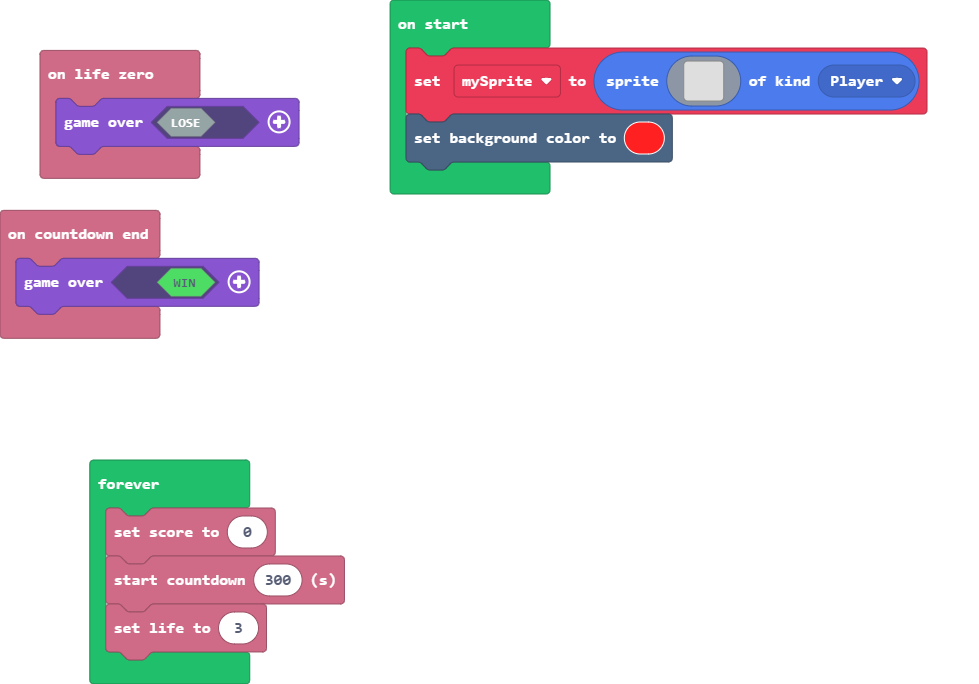
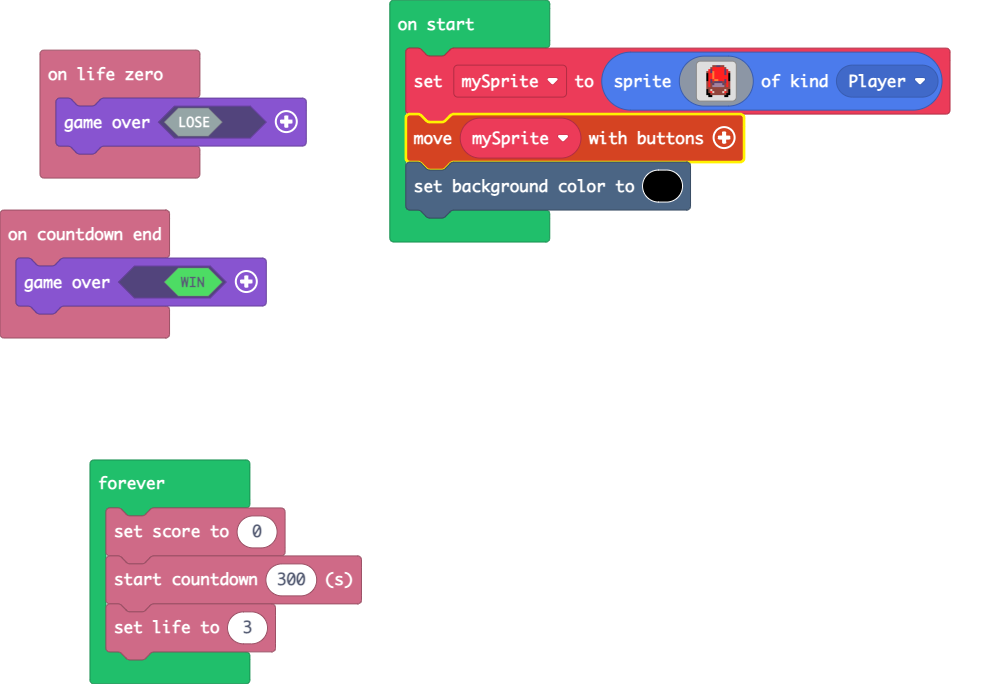
Update main.blocks, main.ts

diff --git a/main.ts b/main.ts
@@ -5,24 +5,25 @@ info.onLifeZero(function () {
     game.over(false)
 })
 let mySprite = sprites.create(img`
-    . . . . . . . . . . . . . . . . 
-    . . . . . . . . . . . . . . . . 
-    . . . . . . . . . . . . . . . . 
-    . . . . . . . . . . . . . . . . 
-    . . . . . . . . . . . . . . . . 
-    . . . . . . . . . . . . . . . . 
-    . . . . . . . . . . . . . . . . 
-    . . . . . . . . . . . . . . . . 
-    . . . . . . . . . . . . . . . . 
-    . . . . . . . . . . . . . . . . 
-    . . . . . . . . . . . . . . . . 
-    . . . . . . . . . . . . . . . . 
-    . . . . . . . . . . . . . . . . 
-    . . . . . . . . . . . . . . . . 
-    . . . . . . . . . . . . . . . . 
-    . . . . . . . . . . . . . . . . 
+    . . . . . . e e c c e e . . . . 
+    . . . . . e 2 2 2 2 2 2 e . . . 
+    . . . . 2 c 2 2 2 2 2 2 c 2 . . 
+    . . . e 2 c 4 2 2 2 2 2 c 2 e . 
+    . . . f 2 2 4 2 2 2 2 2 c 2 f . 
+    . . . f 2 2 4 2 2 2 2 2 2 2 f . 
+    . . . f 2 2 4 2 2 2 2 2 2 2 f . 
+    . . . f 2 c 2 4 4 2 2 2 c 2 f . 
+    . . . e 2 c e c c c c e c 2 e . 
+    . . . e 2 e c b b b b c e 2 e . 
+    . . . e 2 e b b b b b b e 2 e . 
+    . . . e e e e e e e e e e e e . 
+    . . . f e d e e e e e e d e f . 
+    . . . f e 2 d e e e e d 2 e f . 
+    . . . f f e e e e e e e e f f . 
+    . . . . f f . . . . . . f f . . 
     `, SpriteKind.Player)
-scene.setBackgroundColor(2)
+controller.moveSprite(mySprite)
+scene.setBackgroundColor(15)
 forever(function () {
     info.setScore(0)
     info.startCountdown(300)
